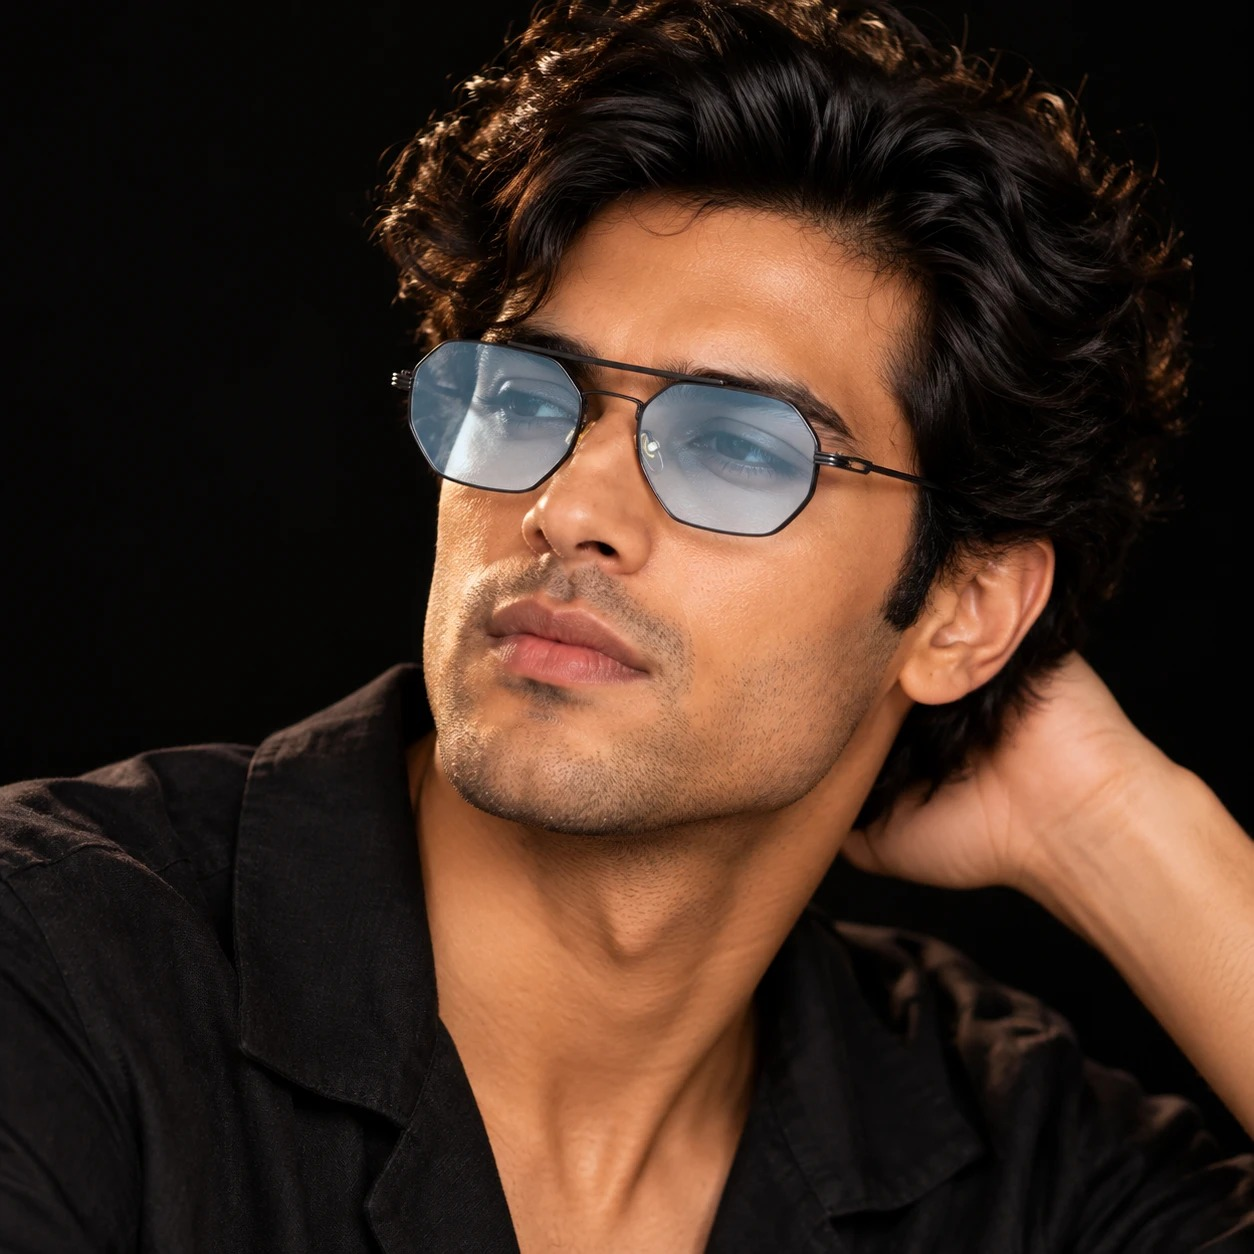
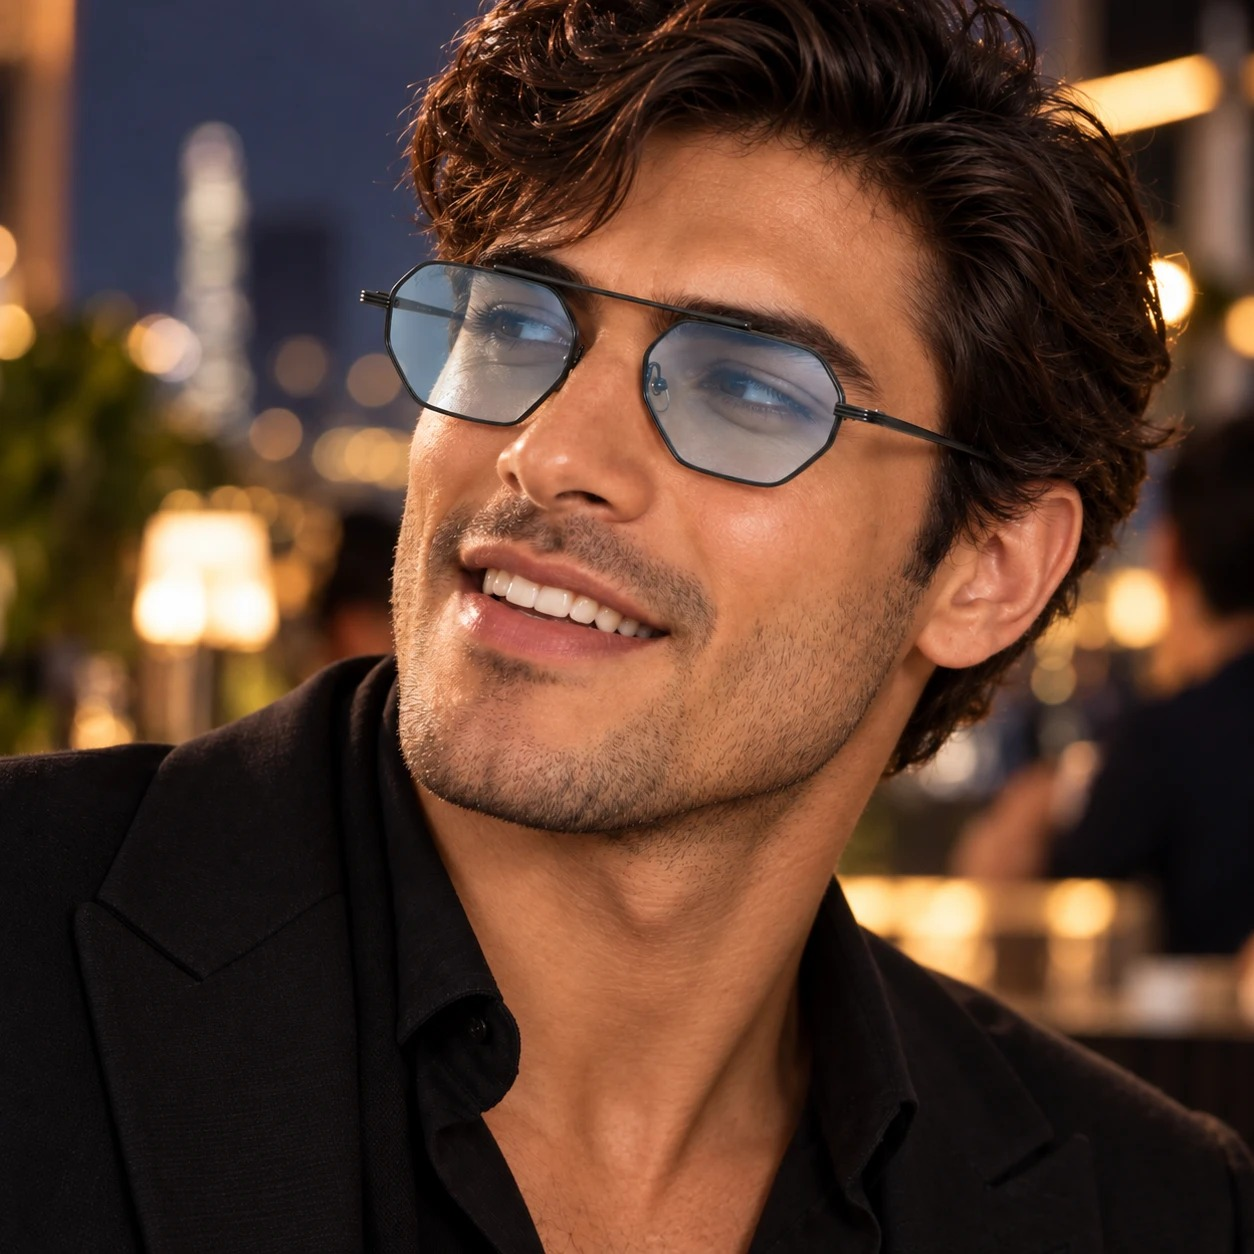
Revert product tiles to white background, add thin gold accent border
Solid black behind the product face was shifting the apparent colour of
every semi-transparent lens tint (translucent colour blends with whatever
sits behind it) — reverted to white, which is what the real product
photos are shot/composited on, so lens colours read accurately again.
Added a thin gold inset border instead for visual "pop" against the black
page, on both the homepage tiles and the product page's main image +
thumbnails. The tile's seam-mask (from the earlier white-line fix) now
tracks whichever face is currently showing instead of assuming black.

Wired in 3 new Octagon model photos (Gold Grey, Silver Light Brown, and
Black Blue as a temporary placeholder — user is aware it still has a busy
party background instead of the intended plain black, and will replace
it).

diff --git a/components/collection/CollectionItem.tsx b/components/collection/CollectionItem.tsx
@@ -61,8 +61,15 @@ export function CollectionItem({
 
   return (
     <div
-      className="group relative aspect-square overflow-hidden bg-[var(--moon-black)]"
-      style={{ boxShadow: "0 0 0 1px var(--moon-black)" }}
+      className="group relative aspect-square overflow-hidden"
+      style={{
+        // Masks a sub-pixel seam artifact from the 3D transform (confirmed
+        // via getBoundingClientRect that grid layout itself has zero gap)
+        // — has to match whichever face is currently showing (white product
+        // vs black model), or it just becomes a seam of its own colour.
+        backgroundColor: shown ? "var(--moon-black)" : "#fff",
+        boxShadow: `0 0 0 1px ${shown ? "var(--moon-black)" : "#fff"}`,
+      }}
     >
       <div
         role="button"
@@ -104,8 +111,15 @@ export function CollectionItem({
           className="relative h-full w-full transition-transform duration-1000 ease-[cubic-bezier(.22,.61,.36,1)] [transform-style:preserve-3d]"
           style={{ transform: shown ? "rotateY(180deg)" : "rotateY(0deg)" }}
         >
-          {/* Front face — product, on solid black */}
-          <div className="absolute inset-0 bg-[var(--moon-black)] [backface-visibility:hidden]">
+          {/* Front face — product, on white. Many lenses are semi-transparent
+              tints, not opaque color — their apparent colour is a blend with
+              whatever sits behind them, so this has to stay white to match
+              the real product photos (which are shot/composited on white).
+              A black or coloured background here would visibly shift every
+              translucent lens tint away from its true colour. Thin gold
+              accent border instead gives it a premium "pop" against the
+              black page without touching the interior white. */}
+          <div className="absolute inset-0 bg-white shadow-[inset_0_0_0_1px_var(--moon-gold)] [backface-visibility:hidden]">
             <Image
               src={productImage}
               alt={chapter.name}

diff --git a/components/chapter/Product360Viewer.tsx b/components/chapter/Product360Viewer.tsx
@@ -21,7 +21,7 @@ export function Product360Viewer({
 
   return (
     <div>
-      <div className="chapter-card-bg relative aspect-square overflow-hidden bg-white">
+      <div className="chapter-card-bg relative aspect-square overflow-hidden bg-white shadow-[inset_0_0_0_1px_var(--moon-gold)]">
         {images.map((img, i) => (
           <Image
             key={img}
@@ -49,7 +49,7 @@ export function Product360Viewer({
           <button
             key={img}
             onClick={() => setFrame(i)}
-            className={`relative aspect-square overflow-hidden bg-white transition-opacity ${
+            className={`relative aspect-square overflow-hidden bg-white shadow-[inset_0_0_0_1px_var(--moon-gold)] transition-opacity ${
               i === frame ? "opacity-100 ring-1 ring-ink" : "opacity-60 hover:opacity-100"
             }`}
             aria-label={`${name} angle ${i + 1}`}
